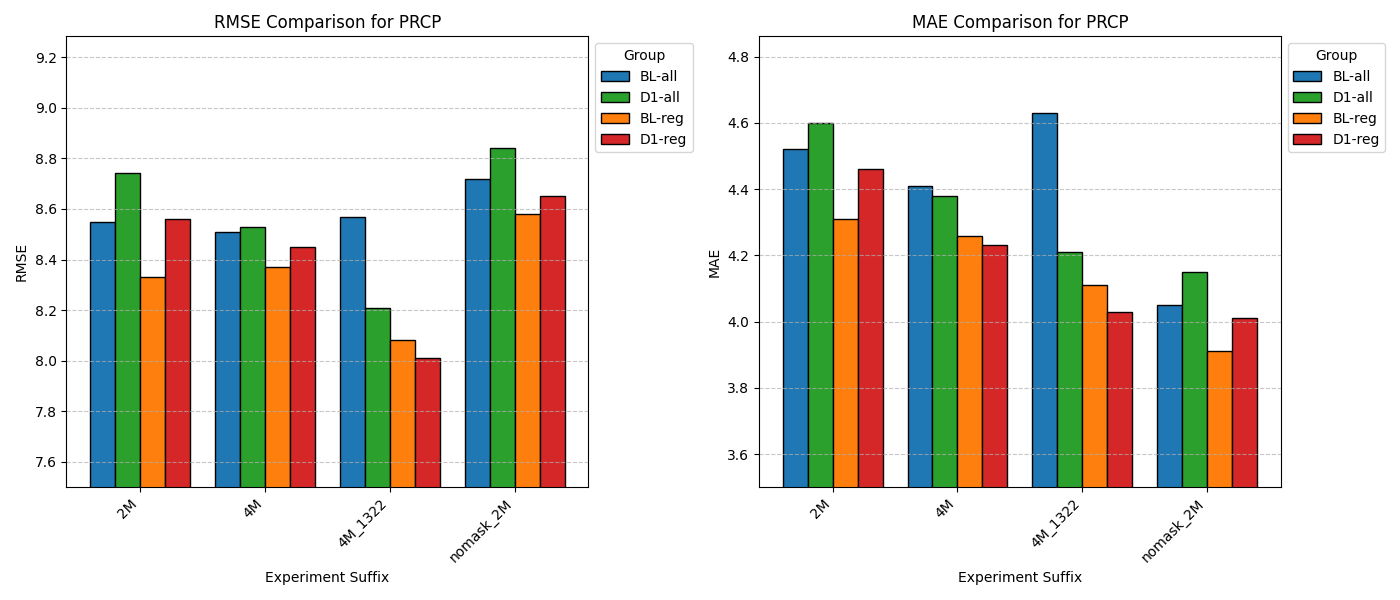
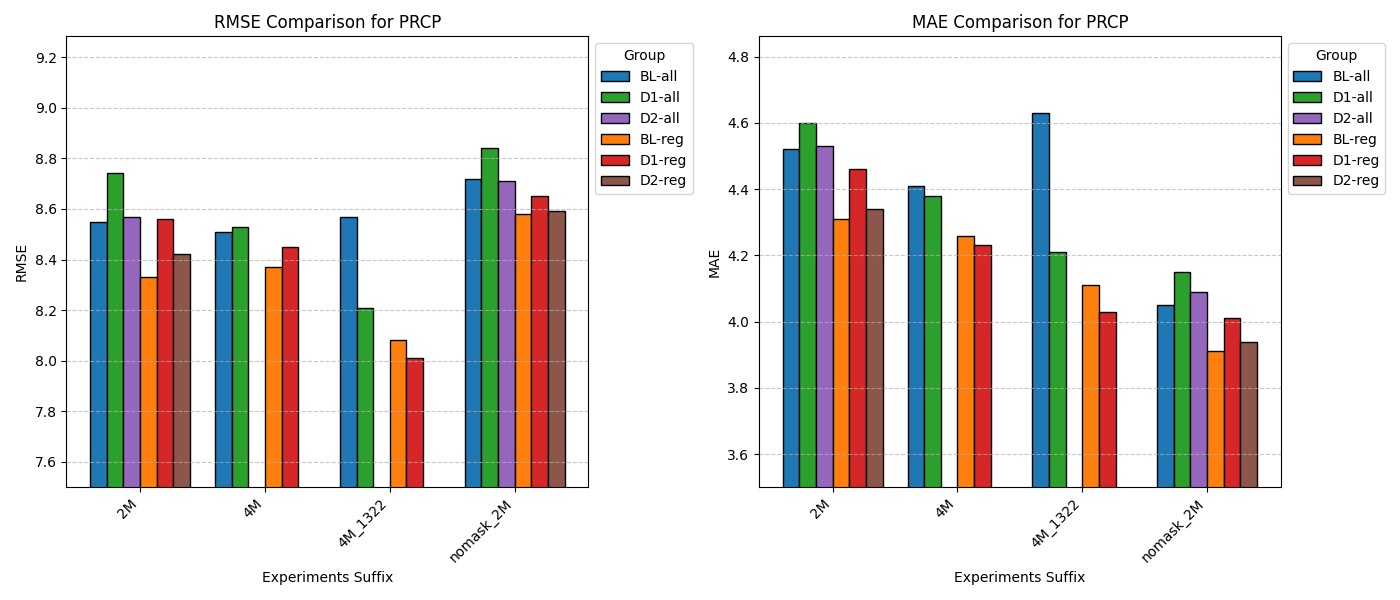
Add plots for experiment D2.

diff --git a/plot_prcp_metrics.py b/plot_prcp_metrics.py
@@ -66,11 +66,12 @@ def plot_grouped_bars(ax: plt.axes, pivot_df: pd.DataFrame, metric_name: str, ym
     """
     n_groups = len(pivot_df)
     index = np.arange(n_groups)  # X-axis positions
-    bar_width = 0.2  # Bar width to align BL and D1 pairs
+    n_bars = len(pivot_df.columns)  # Number of bars per suffix
+    bar_width = 0.8 / n_bars  # Adjust bar width dynamically to prevent overlap
 
     # Define colors for BL and D1 in "all" and "reg" datasets
-    colors = {"BL-all": "tab:blue", "D1-all": "tab:green",
-              "BL-reg": "tab:orange", "D1-reg": "tab:red"}
+    colors = {"BL-all": "tab:blue", "D1-all": "tab:green", "D2-all": "tab:purple",
+              "BL-reg": "tab:orange", "D1-reg": "tab:red", "D2-reg": "tab:brown"}
 
     for i, (label, prefix) in enumerate(pivot_df.columns):
         tag = f"{prefix}-{label}"
@@ -86,7 +87,7 @@ def plot_grouped_bars(ax: plt.axes, pivot_df: pd.DataFrame, metric_name: str, ym
 
     ax.set_xticks(index + bar_width * ((len(pivot_df.columns) / 2) - 0.5))
     ax.set_xticklabels(pivot_df.index, rotation=45, ha="right")
-    ax.set_xlabel("Experiment Suffix")
+    ax.set_xlabel("Experiments Suffix")
     ax.set_ylabel(metric_name)
     ax.set_ylim(ymin=ymin)  # Ensure minimum y-axis threshold
     ax.set_title(f"{metric_name} Comparison for PRCP")
@@ -116,7 +117,7 @@ def plot_prcp_metrics(folder_path: str)  -> None:
     plot_grouped_bars(axes[1], mae_pivot, "MAE", ymin=3.5)
 
     plt.tight_layout()
-    plt.savefig("data/prcp_cmp.png")
+    plt.savefig("docs/experiments/prcp_cmp.png")
     plt.close()
 
 
